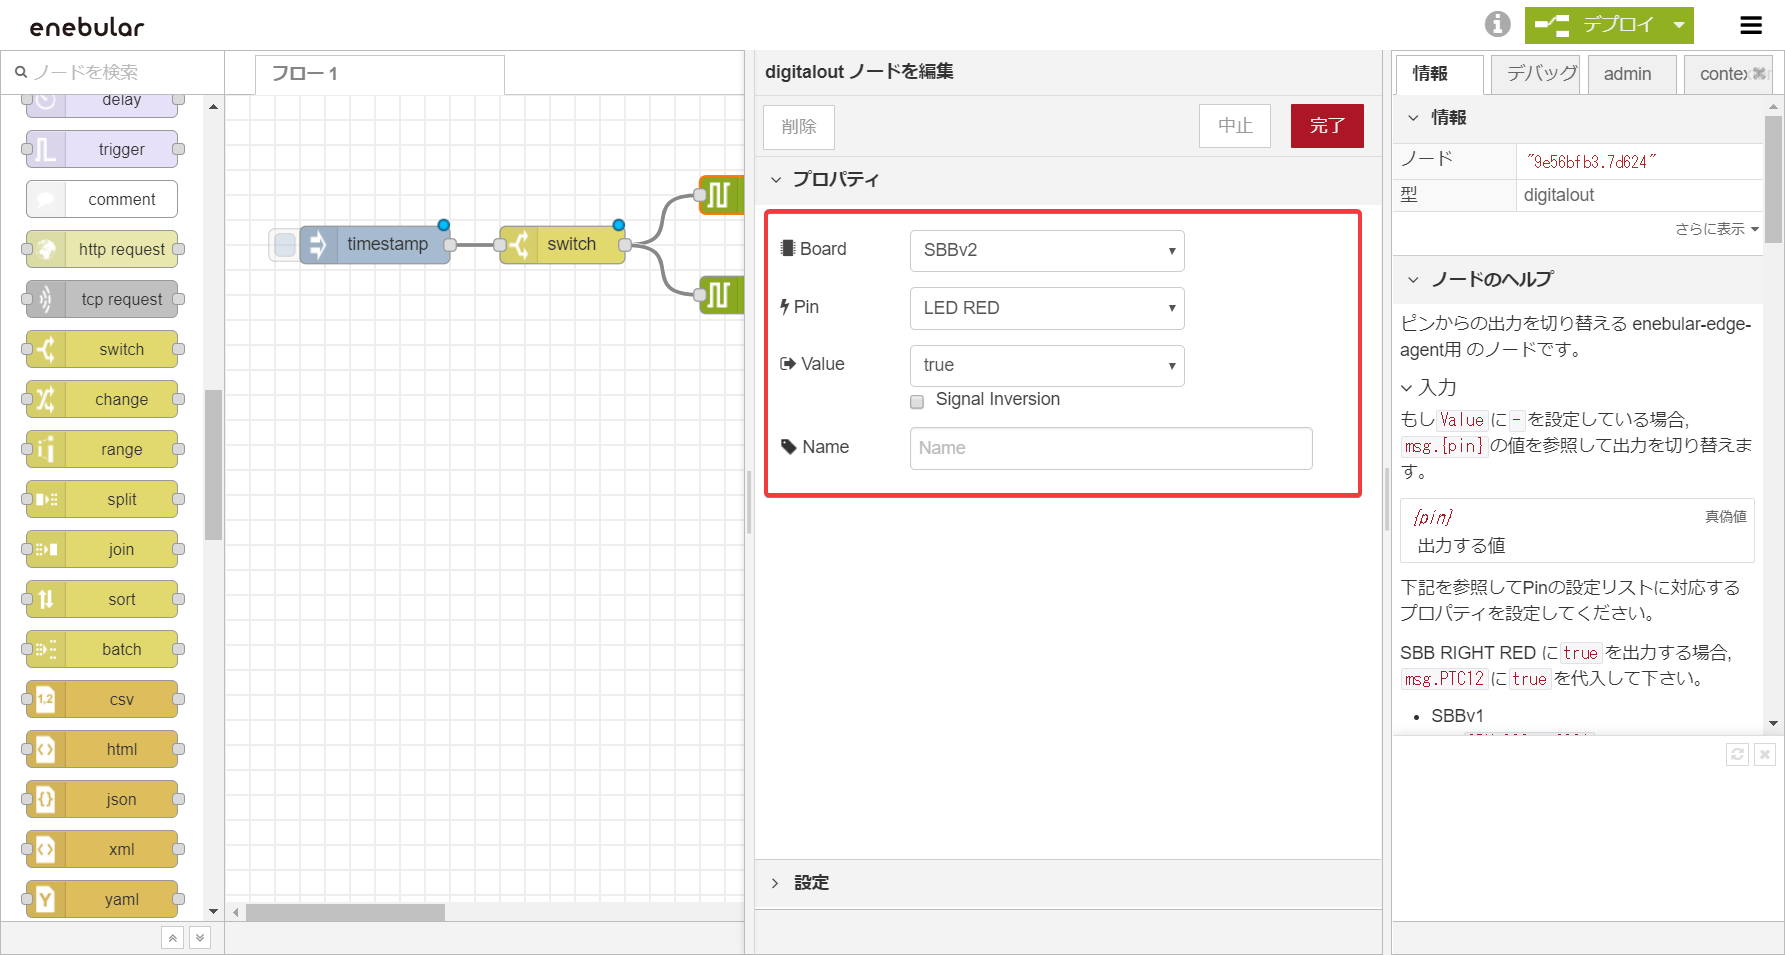
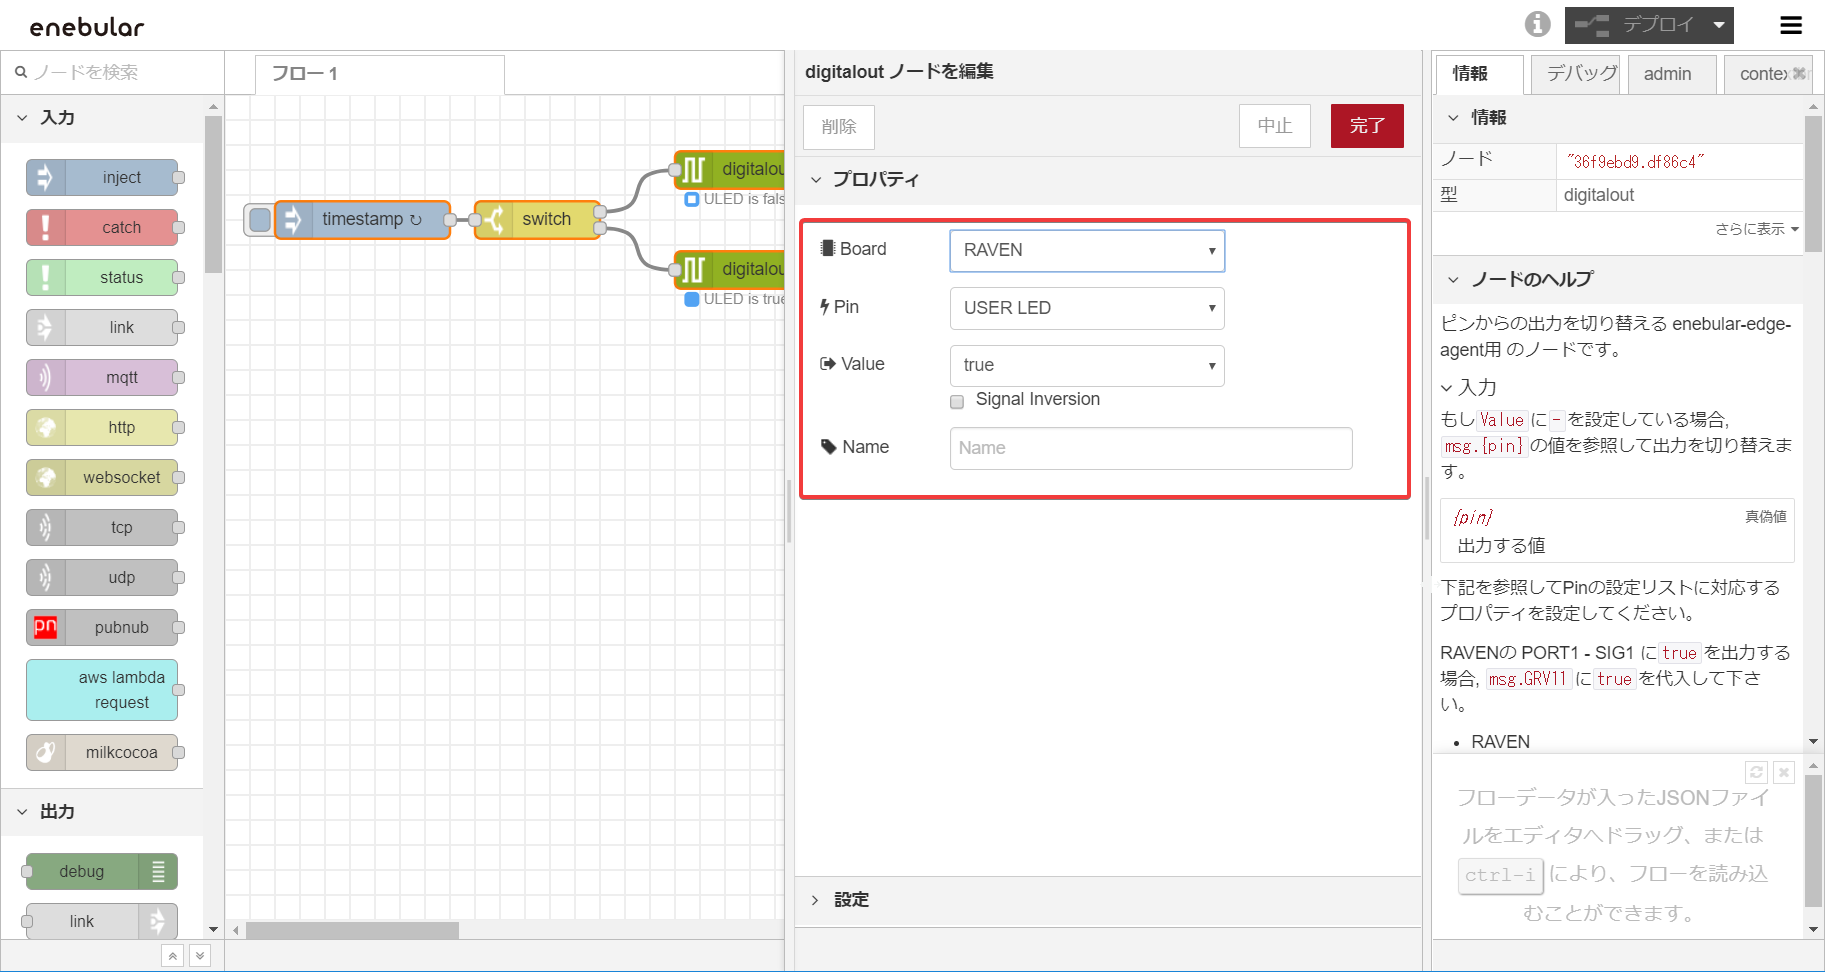
指摘点修正

diff --git a/ja/EnebularEdgeAgent/Configuration.md b/ja/EnebularEdgeAgent/Configuration.md
@@ -1,5 +1,5 @@
 ---
-lastUpdated: 2018-12-04
+lastUpdated: 2018-12-19
 ---
 
 # Configuration
@@ -7,7 +7,6 @@ lastUpdated: 2018-12-04
 enebular-edge-agent は **enebular Reference Board Configuration Tool**(以下:eRB Config. Tool) を使用して無線LAN設定を行います。
 
 1. [インストール](#install)
-1. [起動する前に](#before)
 1. [使用方法](#usage)
 1. [トラブルシューティング](#troubleShooting)
 
@@ -18,18 +17,14 @@ enebular-edge-agent は **enebular Reference Board Configuration Tool**(以下:e
 
 ## 使用方法 {#usage}
 
-![アプリ画面](./../../img/EnebularEdgeAgent/Configuration-GUI.png)
-
-（画像は読み込みモードのものです。）
-
-1. デバイスとPCをデバイスモードでつなぎ、デバイスを設定モードで起動します。（設定モードについては各デバイスのページを参照してください。）
-1. 「ポート」①からデバイスが接続されているシリアルポートを選択します。
-1. ラジオボタン②から設定モードを選択します。
-    - 読み込み・・・「読み込み」③を設定内容がテキストエリア④に表示されます。
-    - 書き込み・・・テキストエリア④に各設定値を入力し、「書き込み」③を押すと、設定できます。
+1. デバイスとPCをUSBケーブルでつなぎ、デバイスを`Setting Mode`で起動します。（`Setting Mode`について詳しくは、各デバイスのページを参照してください。）
+    - RAVENの場合･･･起動時にUSER SWを押したままの状態にする。（RESET SWを押した直後にUSER SWを押したままにするとUSER LEDが赤く点灯し、`Setting Mode`で起動します。）
+1. 「ポート」からデバイスが接続されているシリアルポートを選択します。
+1. 「設定モード」から実行する作業を選択します。
+    - 読み込みの場合・・・「読み込み」ボタンを押すことで、テキストエリアに設定済みのSSID名が表示されます。パスワードの確認はできません。
+    - 書き込みの場合・・・テキストエリアに各設定値を入力し、「書き込み」ボタンを押すと、設定が完了します。
 
 ※ 一度シリアルポートを選択すると設定が保存されるため、次回起動時設定する必要はありません。（シリアルポート名が変わる場合除く）
-２
 
 ## トラブルシューティング {##troubleShooting}
 

diff --git a/ja/EnebularEdgeAgent/Features.md b/ja/EnebularEdgeAgent/Features.md
@@ -1,0 +1,49 @@
+---
+lastUpdated: 2018-12-20
+---
+
+# Features
+
+enebular-edge-agentの各機能について説明します。
+
+### Table of Contents
+
+1. [フロー実行機能](#FlowExecution)
+1. [ステータス通知機能](#StatusNotification)
+1. [ログ送信機能](#LogTransmission)
+1. [ファームウェアアップデート機能](#FirmwareUpdate)
+
+## フロー実行機能{#FlowExecution}
+
+enebularで作成したフロー定義のJSONをデバイス上で実行する機能です。
+デバイスがネットワークに接続すると、フローの実行を開始します。
+enebularからフローがデプロイされると、そのフローを直ちに実行します。
+
+すべてのフローではなく、対応しているノードのみ実行が可能です。詳しくは[Nodes](./Nodes.md)のページを参照してください。
+また、**実行できるフローのサイズは5kBが上限です。** 
+
+enebular-edge-agentは、以下の場合を除き、フローの実行を停止しません。
+- フローが停止するようにプログラミングされている場合
+- フローの実行が不可能なエラーが発生した場合
+
+## ステータス通知機能{#StatusNotification}
+
+enebularにステータスを通知する機能です。
+デバイス起動時30秒経過後に一度ステータスを送信し、以降は5分毎に行います。
+ステータス確認方法については、[DeviceList](./../Device/DeviceList.md)のページを参照してください、
+
+## ログ送信機能{#LogTransmission}
+
+enebularにログを通知する機能です。
+デバイス起動時30秒経過後に一度ログを送信し、以降は5分毎に行います。
+ログ確認方法やログのリストについては、[Logs](./../Device/Logs.md)のページを参照してください、
+
+## ファームウェアアップデート機能{#FirmwareUpdate}
+
+enebular-edge-agentのファームウェアがアップデートされたときに、自動でアップデートがされる機能です。
+ファームウェアアップデートが行われる際には、事前にウフルからの期間やアップデート内容の連絡があります。
+アップデートが実施される時間についてもその中でアナウンスされます。
+
+アップデートが終了すると、報告のメールが届きます。
+
+※アップデート対象外としたいデバイスがある場合は事前に **support@enebular.com** までご連絡ください。

diff --git a/ja/Board/RAVEN.md b/ja/Board/RAVEN.md
@@ -9,7 +9,6 @@ RAVENはenebular-edge-agentのリファレンスボードです。
 ### Table of Contents
 1. [内容物](#contents)
 1. [特徴](#features)
-1. [各部説明](#parts)
 1. [設定モード](#settingMode)
 1. [免責事項](#disclaimer)
 
@@ -22,15 +21,6 @@ RAVENはenebular-edge-agentのリファレンスボードです。
 * USBケーブル
 * クイックスタートガイド
 
-## 特徴{#features}
-
-* MCU：STM32F767VIT6(STMicroelectronics)
-* Cortex-M7  216MHzRAM 512kBFLASH 2048kB
-* コネクティビティ：WiFi, Bluetooth
-* センサI/F：Groveコネクタ×４/ ボード搭載 USER LED / ボード搭載 USER SW
-* 最大消費電力: 約2.5W
-<!--* プラットフォーム認証済(Mbed™Enabled) -->
-
 ## 各部説明{#parts}
 
 ![parts](./../../img/Board/RAVEN-parts.png)
@@ -39,7 +29,7 @@ RAVENはenebular-edge-agentのリファレンスボードです。
 * USER SW … フローで設定できるスイッチ
 * USER LED … フローで設定できるLED
 * RESET SW … リセットスイッチ
-* Port1～4 … Groveコネクタ
+* Port1～4 … Multi Function コネクタ
 
 ## 設定モード{#settingMode}
 

diff --git a/ja/SUMMARY.md b/ja/SUMMARY.md
@@ -1,5 +1,5 @@
 ---
-lastUpdated: 2018-12-06
+lastUpdated: 2018-12-20
 ---
 
 # Summary
@@ -123,8 +123,9 @@ lastUpdated: 2018-12-06
 ## enebular edge agent
 - [Introduction](EnebularEdgeAgent/Introduction.md)
 - [GettingStarted](EnebularEdgeAgent/GettingStarted.md)
-- [Nodes](EnebularEdgeAgent/Nodes.md)
+- [Features](EnebularEdgeAgent/Features.md)
 - [Configuration](EnebularEdgeAgent/Configuration.md)
+- [Nodes](EnebularEdgeAgent/Nodes.md)
 - [SampleFlows](EnebularEdgeAgent/SampleFlows.md)
 - [Board](Board/Introduction.md)
   - [RAVEN](Board/RAVEN.md)

diff --git a/ja/EnebularEdgeAgent/SampleFlows.md b/ja/EnebularEdgeAgent/SampleFlows.md
@@ -3,7 +3,7 @@ lastUpdated: 2018-12-06
 ---
 
 # Sample Flows
-enebular-edge-agentを使用したSample Flowです。市販のGroveモジュールを使用したフローも含まれます。
+enebular-edge-agentを使用したSample Flowです。市販のセンサやアクチュエータを使用したフローも含まれます。
 
 herokuへのフローデプロイなど、enebularのGettingStaredを一通り終えた方に向けたドキュメントとなっています。
 
